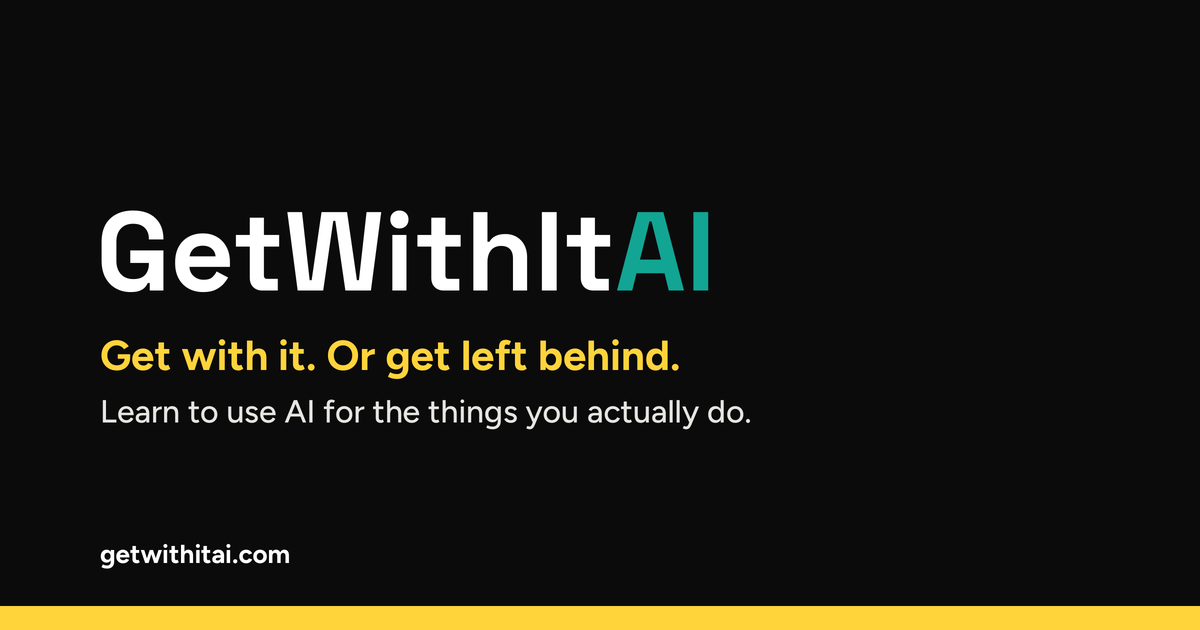
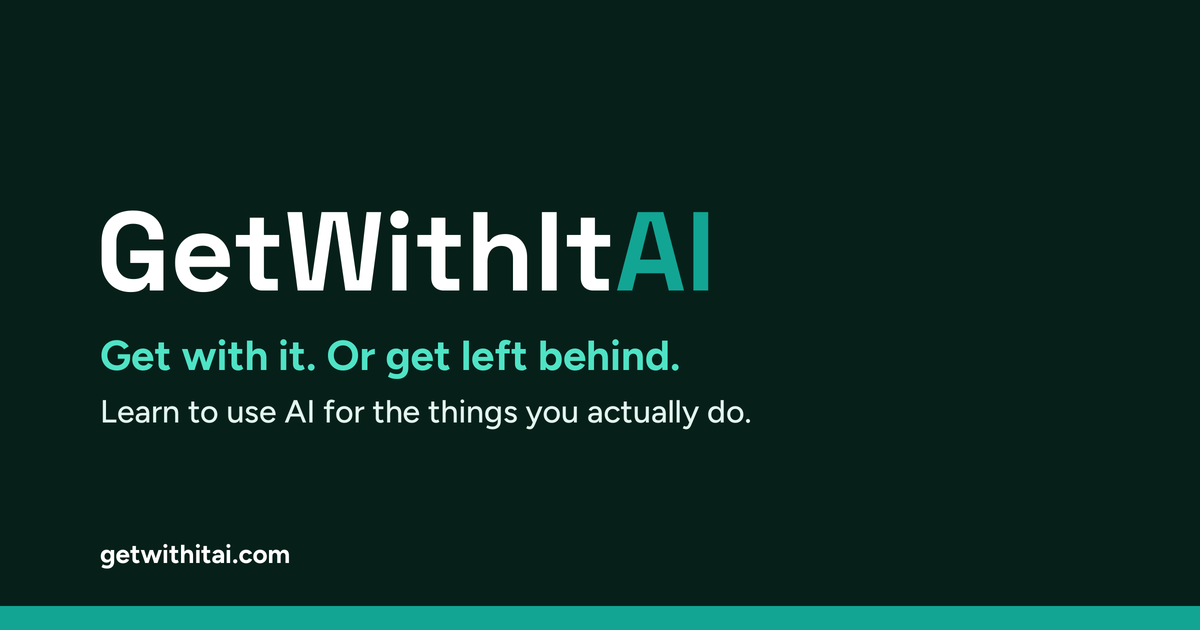
Switch to the Deep Green scheme: no yellow, everything matches the teal AI
Very dark green replaces black, brand teal buttons with dark text,
mint highlights. Site, portal, classroom, icons and share image.

Changed region(s): [[0.0, 0.9349, 1.0, 1.0], [0.0617, 0.5429, 0.555, 0.6032]]

diff --git a/index.html b/index.html
@@ -5,12 +5,12 @@
   <meta name="viewport" content="width=device-width, initial-scale=1.0" />
   <title>GetWithItAI · Learn to use AI for the things you actually do</title>
   <meta name="description" content="AI training for everyone, at work, at home, at school and in business. A free 28-minute starter course, and AI Hero Academy, an 18-module course you can take in one live day." />
-  <meta name="theme-color" content="#0B0B0C" />
+  <meta name="theme-color" content="#062019" />
   <link rel="canonical" href="https://getwithitai.com/" />
-  <link rel="icon" href="favicon.ico?v=20261120b" sizes="any" />
-  <link rel="icon" href="assets/logo.svg?v=20261120b" type="image/svg+xml" />
-  <link rel="apple-touch-icon" href="assets/apple-touch-icon.png?v=20261120b" />
-  <link rel="manifest" href="site.webmanifest?v=20261120b" />
+  <link rel="icon" href="favicon.ico?v=20261120c" sizes="any" />
+  <link rel="icon" href="assets/logo.svg?v=20261120c" type="image/svg+xml" />
+  <link rel="apple-touch-icon" href="assets/apple-touch-icon.png?v=20261120c" />
+  <link rel="manifest" href="site.webmanifest?v=20261120c" />
   <meta property="og:type" content="website" />
   <meta property="og:site_name" content="GetWithItAI" />
   <meta property="og:url" content="https://getwithitai.com/" />
@@ -24,7 +24,7 @@
   <link rel="preconnect" href="https://fonts.googleapis.com">
   <link rel="preconnect" href="https://fonts.gstatic.com" crossorigin>
   <link href="https://fonts.googleapis.com/css2?family=Space+Grotesk:wght@500;700&family=Figtree:wght@400;600;700&display=swap" rel="stylesheet">
-  <link rel="stylesheet" href="assets/styles.css?v=20261120b" />
+  <link rel="stylesheet" href="assets/styles.css?v=20261120c" />
 </head>
 <body>
 
@@ -377,6 +377,6 @@
   ]
 }
 </script>
-<script src="assets/site.js?v=20261120b"></script>
+<script src="assets/site.js?v=20261120c"></script>
 </body>
 </html>

diff --git a/course.html b/course.html
@@ -5,12 +5,12 @@
   <meta name="viewport" content="width=device-width, initial-scale=1.0" />
   <title>AI Hero Academy · The 18 Modules · GetWithItAI</title>
   <meta name="description" content="AI Hero Academy has 18 modules on using AI in your everyday life and work. Take it in one live day or self-paced, then follow it with the 18-day challenge." />
-  <meta name="theme-color" content="#0B0B0C" />
+  <meta name="theme-color" content="#062019" />
   <link rel="canonical" href="https://getwithitai.com/course.html" />
-  <link rel="icon" href="favicon.ico?v=20261120b" sizes="any" />
-  <link rel="icon" href="assets/logo.svg?v=20261120b" type="image/svg+xml" />
-  <link rel="apple-touch-icon" href="assets/apple-touch-icon.png?v=20261120b" />
-  <link rel="manifest" href="site.webmanifest?v=20261120b" />
+  <link rel="icon" href="favicon.ico?v=20261120c" sizes="any" />
+  <link rel="icon" href="assets/logo.svg?v=20261120c" type="image/svg+xml" />
+  <link rel="apple-touch-icon" href="assets/apple-touch-icon.png?v=20261120c" />
+  <link rel="manifest" href="site.webmanifest?v=20261120c" />
   <meta property="og:type" content="website" />
   <meta property="og:site_name" content="GetWithItAI" />
   <meta property="og:url" content="https://getwithitai.com/course.html" />
@@ -24,7 +24,7 @@
   <link rel="preconnect" href="https://fonts.googleapis.com">
   <link rel="preconnect" href="https://fonts.gstatic.com" crossorigin>
   <link href="https://fonts.googleapis.com/css2?family=Space+Grotesk:wght@500;700&family=Figtree:wght@400;600;700&display=swap" rel="stylesheet">
-  <link rel="stylesheet" href="assets/styles.css?v=20261120b" />
+  <link rel="stylesheet" href="assets/styles.css?v=20261120c" />
 </head>
 <body>
 
@@ -343,6 +343,6 @@
   </div>
 </footer>
 
-<script src="assets/site.js?v=20261120b"></script>
+<script src="assets/site.js?v=20261120c"></script>
 </body>
 </html>

diff --git a/learn.html b/learn.html
@@ -5,12 +5,12 @@
   <meta name="viewport" content="width=device-width, initial-scale=1.0" />
   <title>Get With It in 28 Minutes · Free AI Course · GetWithItAI</title>
   <meta name="description" content="A free 28-minute starter course on using AI at work and at home. Seven short lessons, each with a practice prompt you try in a real AI app." />
-  <meta name="theme-color" content="#0B0B0C" />
+  <meta name="theme-color" content="#062019" />
   <link rel="canonical" href="https://getwithitai.com/learn.html" />
-  <link rel="icon" href="favicon.ico?v=20261120b" sizes="any" />
-  <link rel="icon" href="assets/logo.svg?v=20261120b" type="image/svg+xml" />
-  <link rel="apple-touch-icon" href="assets/apple-touch-icon.png?v=20261120b" />
-  <link rel="manifest" href="site.webmanifest?v=20261120b" />
+  <link rel="icon" href="favicon.ico?v=20261120c" sizes="any" />
+  <link rel="icon" href="assets/logo.svg?v=20261120c" type="image/svg+xml" />
+  <link rel="apple-touch-icon" href="assets/apple-touch-icon.png?v=20261120c" />
+  <link rel="manifest" href="site.webmanifest?v=20261120c" />
   <meta property="og:type" content="website" />
   <meta property="og:site_name" content="GetWithItAI" />
   <meta property="og:url" content="https://getwithitai.com/learn.html" />
@@ -24,7 +24,7 @@
   <link rel="preconnect" href="https://fonts.googleapis.com">
   <link rel="preconnect" href="https://fonts.gstatic.com" crossorigin>
   <link href="https://fonts.googleapis.com/css2?family=Space+Grotesk:wght@500;700&family=Figtree:wght@400;600;700&display=swap" rel="stylesheet">
-  <link rel="stylesheet" href="assets/styles.css?v=20261120b" />
+  <link rel="stylesheet" href="assets/styles.css?v=20261120c" />
 </head>
 <body>
 
@@ -373,6 +373,6 @@
   </div>
 </footer>
 
-<script src="assets/site.js?v=20261120b"></script>
+<script src="assets/site.js?v=20261120c"></script>
 </body>
 </html>

diff --git a/pricing.html b/pricing.html
@@ -5,12 +5,12 @@
   <meta name="viewport" content="width=device-width, initial-scale=1.0" />
   <title>Pricing · AI Hero Academy · GetWithItAI</title>
   <meta name="description" content="A free 28-minute starter course, a $197 one-day bootcamp, a $250 self-paced course, and private sessions for teams of up to 15." />
-  <meta name="theme-color" content="#0B0B0C" />
+  <meta name="theme-color" content="#062019" />
   <link rel="canonical" href="https://getwithitai.com/pricing.html" />
-  <link rel="icon" href="favicon.ico?v=20261120b" sizes="any" />
-  <link rel="icon" href="assets/logo.svg?v=20261120b" type="image/svg+xml" />
-  <link rel="apple-touch-icon" href="assets/apple-touch-icon.png?v=20261120b" />
-  <link rel="manifest" href="site.webmanifest?v=20261120b" />
+  <link rel="icon" href="favicon.ico?v=20261120c" sizes="any" />
+  <link rel="icon" href="assets/logo.svg?v=20261120c" type="image/svg+xml" />
+  <link rel="apple-touch-icon" href="assets/apple-touch-icon.png?v=20261120c" />
+  <link rel="manifest" href="site.webmanifest?v=20261120c" />
   <meta property="og:type" content="website" />
   <meta property="og:site_name" content="GetWithItAI" />
   <meta property="og:url" content="https://getwithitai.com/pricing.html" />
@@ -24,7 +24,7 @@
   <link rel="preconnect" href="https://fonts.googleapis.com">
   <link rel="preconnect" href="https://fonts.gstatic.com" crossorigin>
   <link href="https://fonts.googleapis.com/css2?family=Space+Grotesk:wght@500;700&family=Figtree:wght@400;600;700&display=swap" rel="stylesheet">
-  <link rel="stylesheet" href="assets/styles.css?v=20261120b" />
+  <link rel="stylesheet" href="assets/styles.css?v=20261120c" />
 </head>
 <body>
 
@@ -167,6 +167,6 @@
   </div>
 </footer>
 
-<script src="assets/site.js?v=20261120b"></script>
+<script src="assets/site.js?v=20261120c"></script>
 </body>
 </html>

diff --git a/register.html b/register.html
@@ -5,12 +5,12 @@
   <meta name="viewport" content="width=device-width, initial-scale=1.0" />
   <title>Register · AI Hero Academy · GetWithItAI</title>
   <meta name="description" content="Save your seat in AI Hero Academy. Register here and we'll email you the dates and payment details within 24 hours." />
-  <meta name="theme-color" content="#0B0B0C" />
+  <meta name="theme-color" content="#062019" />
   <link rel="canonical" href="https://getwithitai.com/register.html" />
-  <link rel="icon" href="favicon.ico?v=20261120b" sizes="any" />
-  <link rel="icon" href="assets/logo.svg?v=20261120b" type="image/svg+xml" />
-  <link rel="apple-touch-icon" href="assets/apple-touch-icon.png?v=20261120b" />
-  <link rel="manifest" href="site.webmanifest?v=20261120b" />
+  <link rel="icon" href="favicon.ico?v=20261120c" sizes="any" />
+  <link rel="icon" href="assets/logo.svg?v=20261120c" type="image/svg+xml" />
+  <link rel="apple-touch-icon" href="assets/apple-touch-icon.png?v=20261120c" />
+  <link rel="manifest" href="site.webmanifest?v=20261120c" />
   <meta property="og:type" content="website" />
   <meta property="og:site_name" content="GetWithItAI" />
   <meta property="og:url" content="https://getwithitai.com/register.html" />
@@ -24,7 +24,7 @@
   <link rel="preconnect" href="https://fonts.googleapis.com">
   <link rel="preconnect" href="https://fonts.gstatic.com" crossorigin>
   <link href="https://fonts.googleapis.com/css2?family=Space+Grotesk:wght@500;700&family=Figtree:wght@400;600;700&display=swap" rel="stylesheet">
-  <link rel="stylesheet" href="assets/styles.css?v=20261120b" />
+  <link rel="stylesheet" href="assets/styles.css?v=20261120c" />
 </head>
 <body>
 
@@ -145,6 +145,6 @@
   </div>
 </footer>
 
-<script src="assets/site.js?v=20261120b"></script>
+<script src="assets/site.js?v=20261120c"></script>
 </body>
 </html>

diff --git a/404.html b/404.html
@@ -5,12 +5,12 @@
   <meta name="viewport" content="width=device-width, initial-scale=1.0" />
   <title>Page Missing · GetWithItAI</title>
   <meta name="description" content="This page has moved or the link is broken." />
-  <meta name="theme-color" content="#0B0B0C" />
+  <meta name="theme-color" content="#062019" />
   <meta name="robots" content="noindex" />
-  <link rel="icon" href="/favicon.ico?v=20261120b" sizes="any" />
-  <link rel="icon" href="/assets/logo.svg?v=20261120b" type="image/svg+xml" />
-  <link rel="apple-touch-icon" href="/assets/apple-touch-icon.png?v=20261120b" />
-  <link rel="manifest" href="/site.webmanifest?v=20261120b" />
+  <link rel="icon" href="/favicon.ico?v=20261120c" sizes="any" />
+  <link rel="icon" href="/assets/logo.svg?v=20261120c" type="image/svg+xml" />
+  <link rel="apple-touch-icon" href="/assets/apple-touch-icon.png?v=20261120c" />
+  <link rel="manifest" href="/site.webmanifest?v=20261120c" />
   <meta property="og:type" content="website" />
   <meta property="og:site_name" content="GetWithItAI" />
   <meta property="og:url" content="https://getwithitai.com/404.html" />
@@ -24,7 +24,7 @@
   <link rel="preconnect" href="https://fonts.googleapis.com">
   <link rel="preconnect" href="https://fonts.gstatic.com" crossorigin>
   <link href="https://fonts.googleapis.com/css2?family=Space+Grotesk:wght@500;700&family=Figtree:wght@400;600;700&display=swap" rel="stylesheet">
-  <link rel="stylesheet" href="/assets/styles.css?v=20261120b" />
+  <link rel="stylesheet" href="/assets/styles.css?v=20261120c" />
 </head>
 <body>
 
@@ -90,6 +90,6 @@
   </div>
 </footer>
 
-<script src="/assets/site.js?v=20261120b"></script>
+<script src="/assets/site.js?v=20261120c"></script>
 </body>
 </html>

diff --git a/assets/styles.css b/assets/styles.css
@@ -517,3 +517,38 @@ footer a:hover { color: var(--yellow); }
 
 .done-btn.is-done { background: var(--teal); border-color: var(--teal); color: var(--ink); }
 .open-apps a:hover { background: var(--ink); color: #fff; }
+
+/* ============================================================
+   Scheme 6 "Deep Green" (Sam, 2026-11-20: keep the contrast, no
+   yellow, everything has to match the teal AI). Very dark green in
+   place of black, brand teal buttons with dark text, mint highlights.
+   Overrides Scheme 5 above.
+   ============================================================ */
+:root {
+  --ice: #E4F4EF;
+  --petrol: #062019;
+  --ink: #062019;
+  --muted: #26403A;
+  --rule: #BFD9D1;
+  --bubble-ai: #E4F4EF;
+  --teal: #12A594;
+  --teal-dark: #0A7D70;
+  --yellow: #12A594;      /* old name kept so Scheme 5 rules turn green */
+  --yellow-dark: #0E9283;
+  --mint: #4FE3C6;
+}
+.topbar { background: var(--teal); color: var(--ink); }
+.btn-teal { background: var(--teal); color: var(--ink); }
+.btn-teal:hover { background: var(--mint); color: var(--ink); }
+.deep .eyebrow { color: var(--mint); }
+.stat-num { color: var(--mint); }
+footer a:hover { color: var(--mint); }
+.card .step { background: var(--ink); color: var(--mint); }
+.price-card.featured::before { background: var(--teal); color: var(--ink); }
+.chat button.copy:hover { background: var(--teal); color: var(--ink); }
+.deep .card { background: #0D2E26; border-color: #1E4A3F; }
+.deep .badge { background: #0D2E26; }
+section.deep { color: #E4F4EF; }
+section.deep .muted, .deep .muted, .source { color: #BFD9D1; }
+footer { color: #BFD9D1; }
+.footer-bottom { color: #8FB5AA; border-top-color: #1E4A3F; }

diff --git a/with-it/issue-001.html b/with-it/issue-001.html
@@ -7,7 +7,7 @@
   <meta name="description" content="Issue 001 of With It: OpenAI tools shutting down on 30 November, this week's model news, a court fine for hidden AI instructions, and a prompt to try." />
   <meta name="theme-color" content="#07110f" />
   <link rel="canonical" href="https://getwithitai.com/with-it/issue-001.html" />
-  <link rel="icon" href="../assets/logo.svg?v=20261120b" type="image/svg+xml" />
+  <link rel="icon" href="../assets/logo.svg?v=20261120c" type="image/svg+xml" />
   <meta property="og:type" content="website" />
   <meta property="og:site_name" content="With It" />
   <meta property="og:title" content="Issue 001 · OpenAI shutdowns on 30 November · With It" />
@@ -17,7 +17,7 @@
   <link rel="preconnect" href="https://fonts.googleapis.com">
   <link rel="preconnect" href="https://fonts.gstatic.com" crossorigin>
   <link href="https://fonts.googleapis.com/css2?family=Fraunces:ital,opsz,wght@0,9..144,560;1,9..144,560&family=Figtree:wght@400;600;700&family=Space+Grotesk:wght@500;700&display=swap" rel="stylesheet">
-  <link rel="stylesheet" href="assets/styles.css?v=20261120b" />
+  <link rel="stylesheet" href="assets/styles.css?v=20261120c" />
 </head>
 <body>
 <div class="lure-bar">With It is free from GetWithItAI. <a href="../learn.html">Try the free 28-minute course</a></div>
@@ -148,6 +148,6 @@ Background: we use [name your apps]. Do not invent our setup. If I did not give 
   </div>
   <div class="wrap footer-bottom">&copy; 2026 GetWithItAI</div>
 </footer>
-<script src="assets/desk.js?v=20261120b"></script>
+<script src="assets/desk.js?v=20261120c"></script>
 </body>
 </html>

diff --git a/with-it/issue-002.html b/with-it/issue-002.html
@@ -7,7 +7,7 @@
   <meta name="description" content="Two free tools that show the page they read from, and why I still check every date myself." />
   <meta name="theme-color" content="#07110f" />
   <link rel="canonical" href="https://getwithitai.com/with-it/issue-002.html" />
-  <link rel="icon" href="../assets/logo.svg?v=20261120b" type="image/svg+xml" />
+  <link rel="icon" href="../assets/logo.svg?v=20261120c" type="image/svg+xml" />
   <meta property="og:type" content="website" />
   <meta property="og:site_name" content="With It" />
   <meta property="og:title" content="Issue 002 · Pull every deadline out of a long document in minutes · With It" />
@@ -17,7 +17,7 @@
   <link rel="preconnect" href="https://fonts.googleapis.com">
   <link rel="preconnect" href="https://fonts.gstatic.com" crossorigin>
   <link href="https://fonts.googleapis.com/css2?family=Fraunces:ital,opsz,wght@0,9..144,560;1,9..144,560&family=Figtree:wght@400;600;700&family=Space+Grotesk:wght@500;700&display=swap" rel="stylesheet">
-  <link rel="stylesheet" href="assets/styles.css?v=20261120b" />
+  <link rel="stylesheet" href="assets/styles.css?v=20261120c" />
 </head>
 <body>
 <div class="lure-bar">With It is free from GetWithItAI. <a href="../learn.html">Try the free 28-minute course</a></div>
@@ -104,6 +104,6 @@ Background: if a date isn't stated outright, write "not stated" and quote the li
   </div>
   <div class="wrap footer-bottom">&copy; 2026 GetWithItAI</div>
 </footer>
-<script src="assets/desk.js?v=20261120b"></script>
+<script src="assets/desk.js?v=20261120c"></script>
 </body>
 </html>

diff --git a/with-it/index.html b/with-it/index.html
@@ -7,7 +7,7 @@
   <meta name="description" content="With It is a free AI newsletter from GetWithItAI. Short letters every Monday, Wednesday and Friday with sources linked, plus a site of the day and a practice challenge." />
   <meta name="theme-color" content="#07110f" />
   <link rel="canonical" href="https://getwithitai.com/with-it/" />
-  <link rel="icon" href="../assets/logo.svg?v=20261120b" type="image/svg+xml" />
+  <link rel="icon" href="../assets/logo.svg?v=20261120c" type="image/svg+xml" />
   <meta property="og:type" content="website" />
   <meta property="og:site_name" content="With It" />
   <meta property="og:title" content="With It · A short AI newsletter from GetWithItAI" />
@@ -17,7 +17,7 @@
   <link rel="preconnect" href="https://fonts.googleapis.com">
   <link rel="preconnect" href="https://fonts.gstatic.com" crossorigin>
   <link href="https://fonts.googleapis.com/css2?family=Fraunces:ital,opsz,wght@0,9..144,560;1,9..144,560&family=Figtree:wght@400;600;700&family=Space+Grotesk:wght@500;700&display=swap" rel="stylesheet">
-  <link rel="stylesheet" href="assets/styles.css?v=20261120b" />
+  <link rel="stylesheet" href="assets/styles.css?v=20261120c" />
 </head>
 <body>
 <div class="lure-bar">With It is free from GetWithItAI. <a href="../learn.html">Try the free 28-minute course</a></div>
@@ -114,6 +114,6 @@
   </div>
   <div class="wrap footer-bottom">&copy; 2026 GetWithItAI</div>
 </footer>
-<script src="assets/desk.js?v=20261120b"></script>
+<script src="assets/desk.js?v=20261120c"></script>
 </body>
 </html>

diff --git a/with-it/daily.html b/with-it/daily.html
@@ -7,7 +7,7 @@
   <meta name="description" content="One AI site to try and a fifteen-minute practice challenge, new every day." />
   <meta name="theme-color" content="#07110f" />
   <link rel="canonical" href="https://getwithitai.com/with-it/daily.html" />
-  <link rel="icon" href="../assets/logo.svg?v=20261120b" type="image/svg+xml" />
+  <link rel="icon" href="../assets/logo.svg?v=20261120c" type="image/svg+xml" />
   <meta property="og:type" content="website" />
   <meta property="og:site_name" content="With It" />
   <meta property="og:title" content="Today's AI site and challenge · With It" />
@@ -17,7 +17,7 @@
   <link rel="preconnect" href="https://fonts.googleapis.com">
   <link rel="preconnect" href="https://fonts.gstatic.com" crossorigin>
   <link href="https://fonts.googleapis.com/css2?family=Fraunces:ital,opsz,wght@0,9..144,560;1,9..144,560&family=Figtree:wght@400;600;700&family=Space+Grotesk:wght@500;700&display=swap" rel="stylesheet">
-  <link rel="stylesheet" href="assets/styles.css?v=20261120b" />
+  <link rel="stylesheet" href="assets/styles.css?v=20261120c" />
 </head>
 <body>
 <div class="lure-bar">With It is free from GetWithItAI. <a href="../learn.html">Try the free 28-minute course</a></div>
@@ -71,6 +71,6 @@
   </div>
   <div class="wrap footer-bottom">&copy; 2026 GetWithItAI</div>
 </footer>
-<script src="assets/desk.js?v=20261120b"></script>
+<script src="assets/desk.js?v=20261120c"></script>
 </body>
 </html>

diff --git a/with-it/about.html b/with-it/about.html
@@ -7,7 +7,7 @@
   <meta name="description" content="What the With It newsletter is and what's in each issue." />
   <meta name="theme-color" content="#07110f" />
   <link rel="canonical" href="https://getwithitai.com/with-it/about.html" />
-  <link rel="icon" href="../assets/logo.svg?v=20261120b" type="image/svg+xml" />
+  <link rel="icon" href="../assets/logo.svg?v=20261120c" type="image/svg+xml" />
   <meta property="og:type" content="website" />
   <meta property="og:site_name" content="With It" />
   <meta property="og:title" content="About · With It" />
@@ -17,7 +17,7 @@
   <link rel="preconnect" href="https://fonts.googleapis.com">
   <link rel="preconnect" href="https://fonts.gstatic.com" crossorigin>
   <link href="https://fonts.googleapis.com/css2?family=Fraunces:ital,opsz,wght@0,9..144,560;1,9..144,560&family=Figtree:wght@400;600;700&family=Space+Grotesk:wght@500;700&display=swap" rel="stylesheet">
-  <link rel="stylesheet" href="assets/styles.css?v=20261120b" />
+  <link rel="stylesheet" href="assets/styles.css?v=20261120c" />
 </head>
 <body>
 <div class="lure-bar">With It is free from GetWithItAI. <a href="../learn.html">Try the free 28-minute course</a></div>
@@ -77,6 +77,6 @@
   </div>
   <div class="wrap footer-bottom">&copy; 2026 GetWithItAI</div>
 </footer>
-<script src="assets/desk.js?v=20261120b"></script>
+<script src="assets/desk.js?v=20261120c"></script>
 </body>
 </html>
